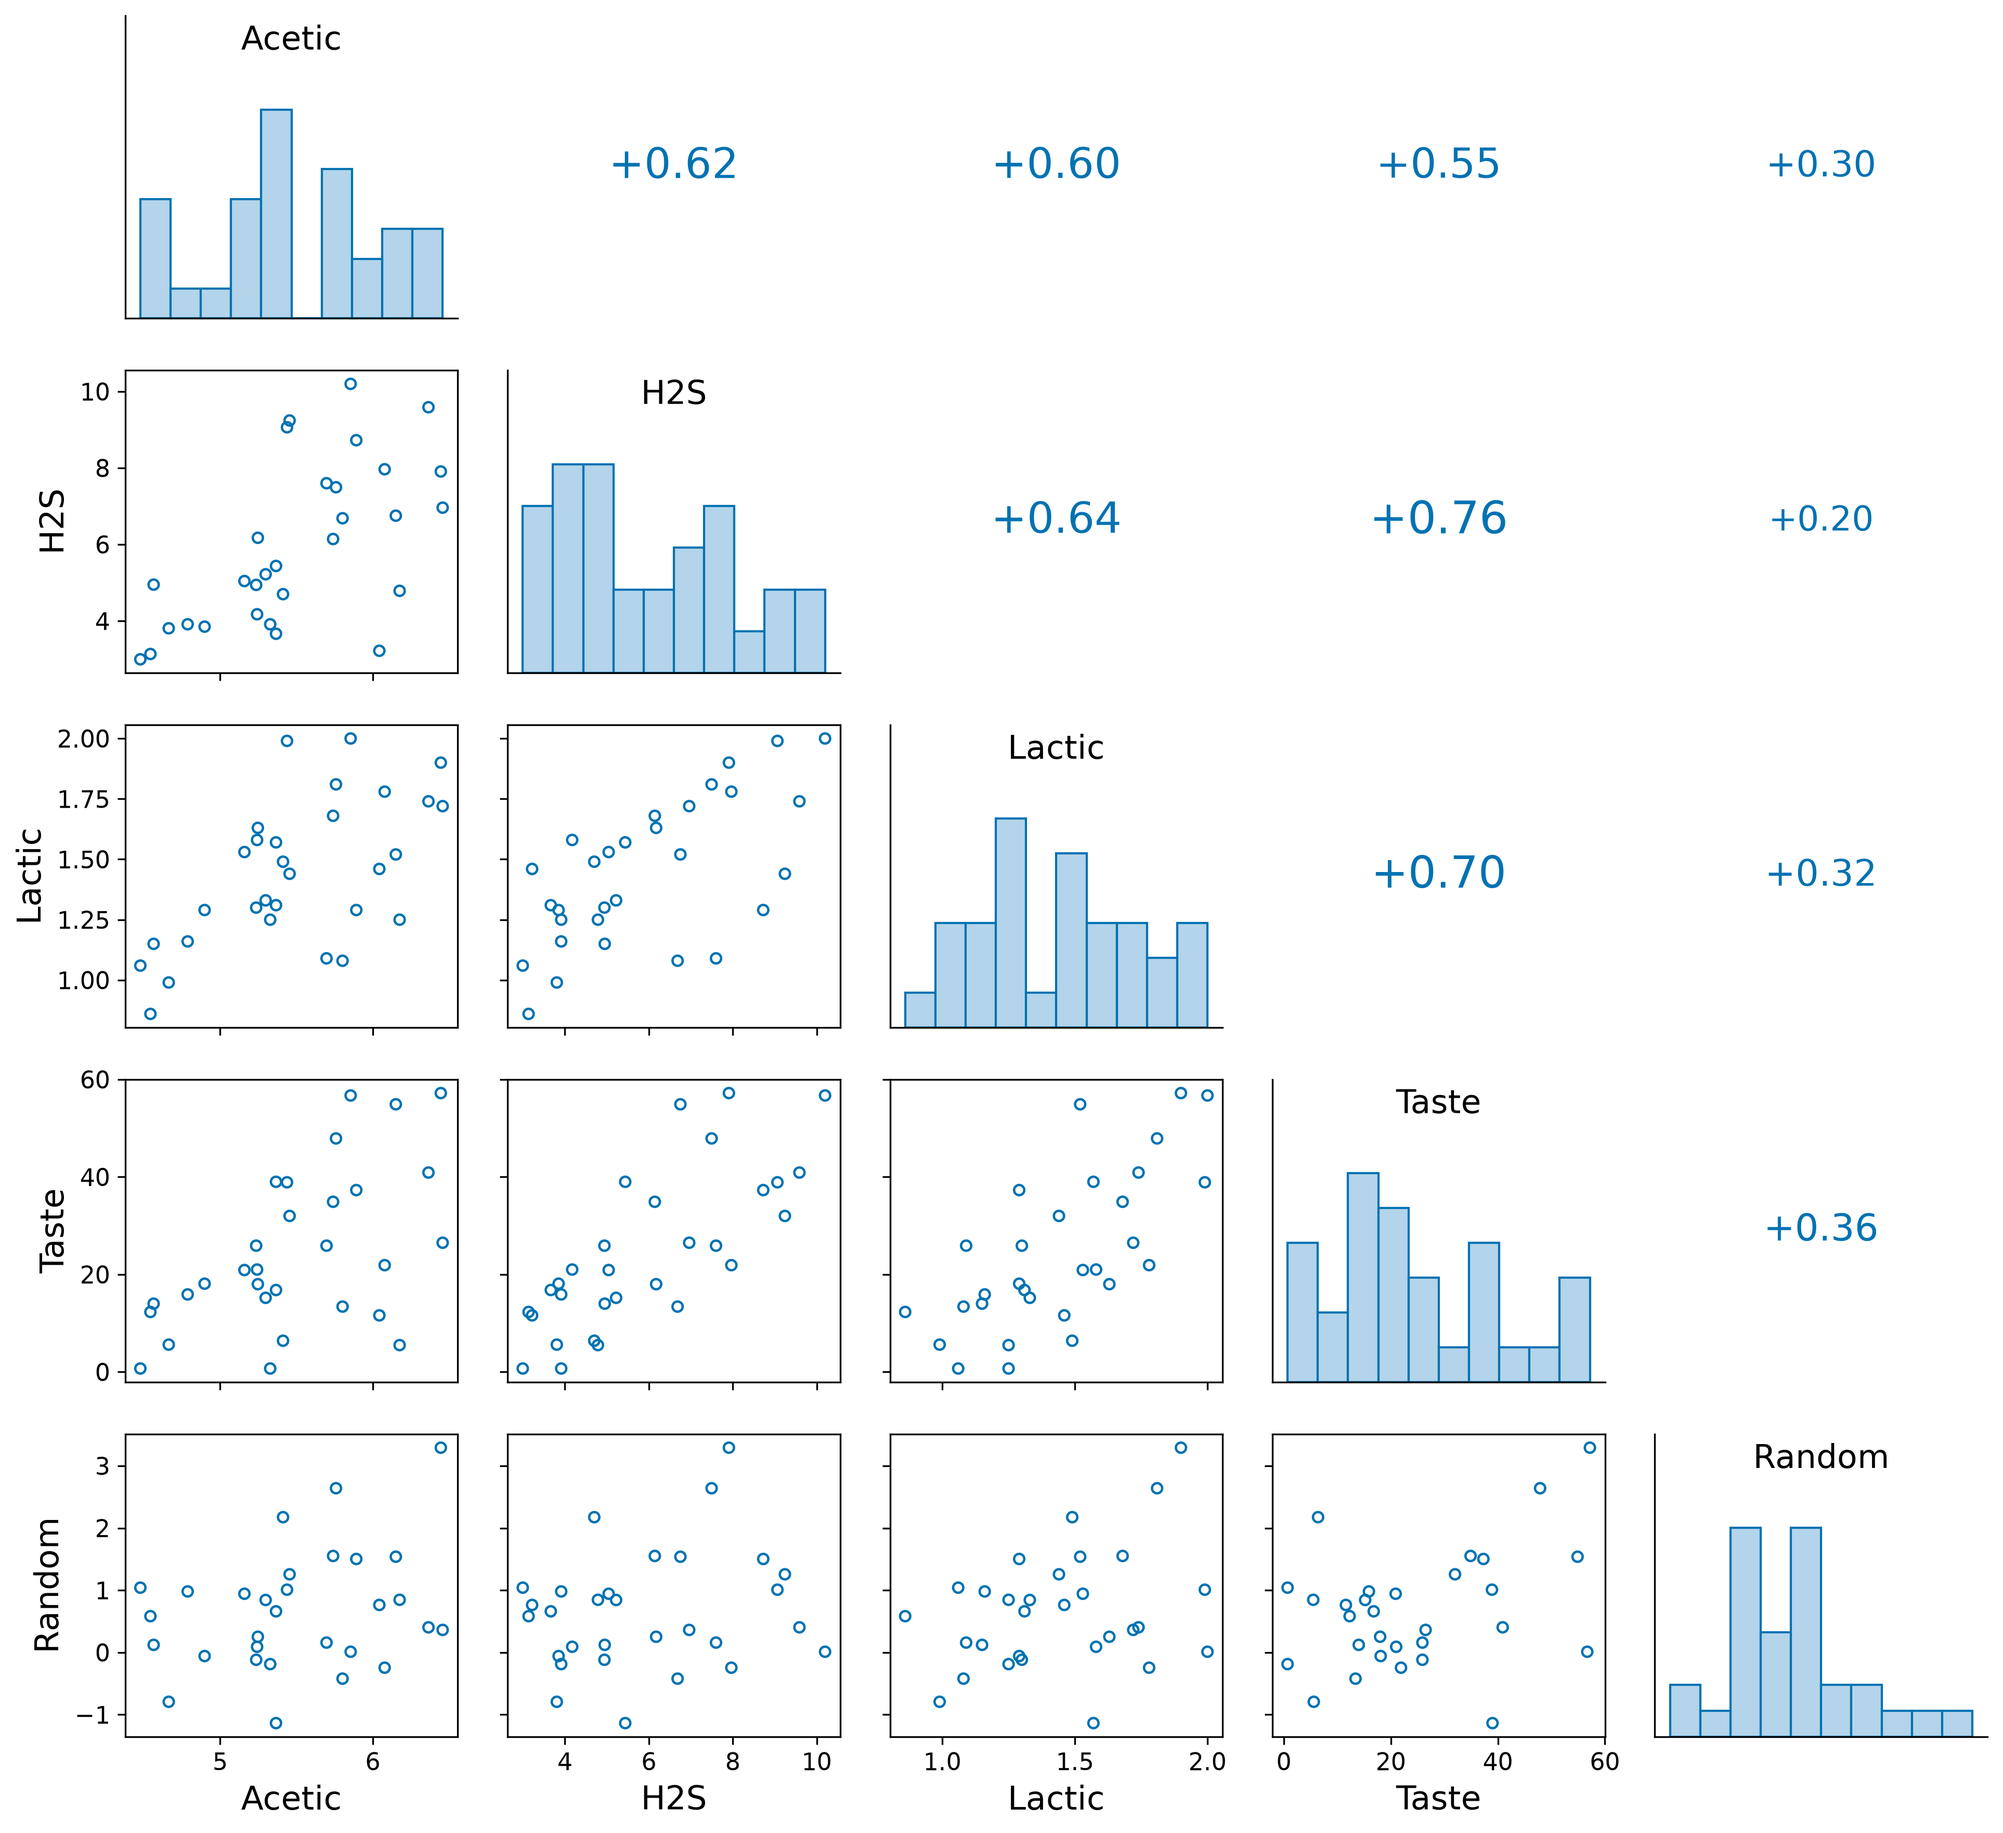
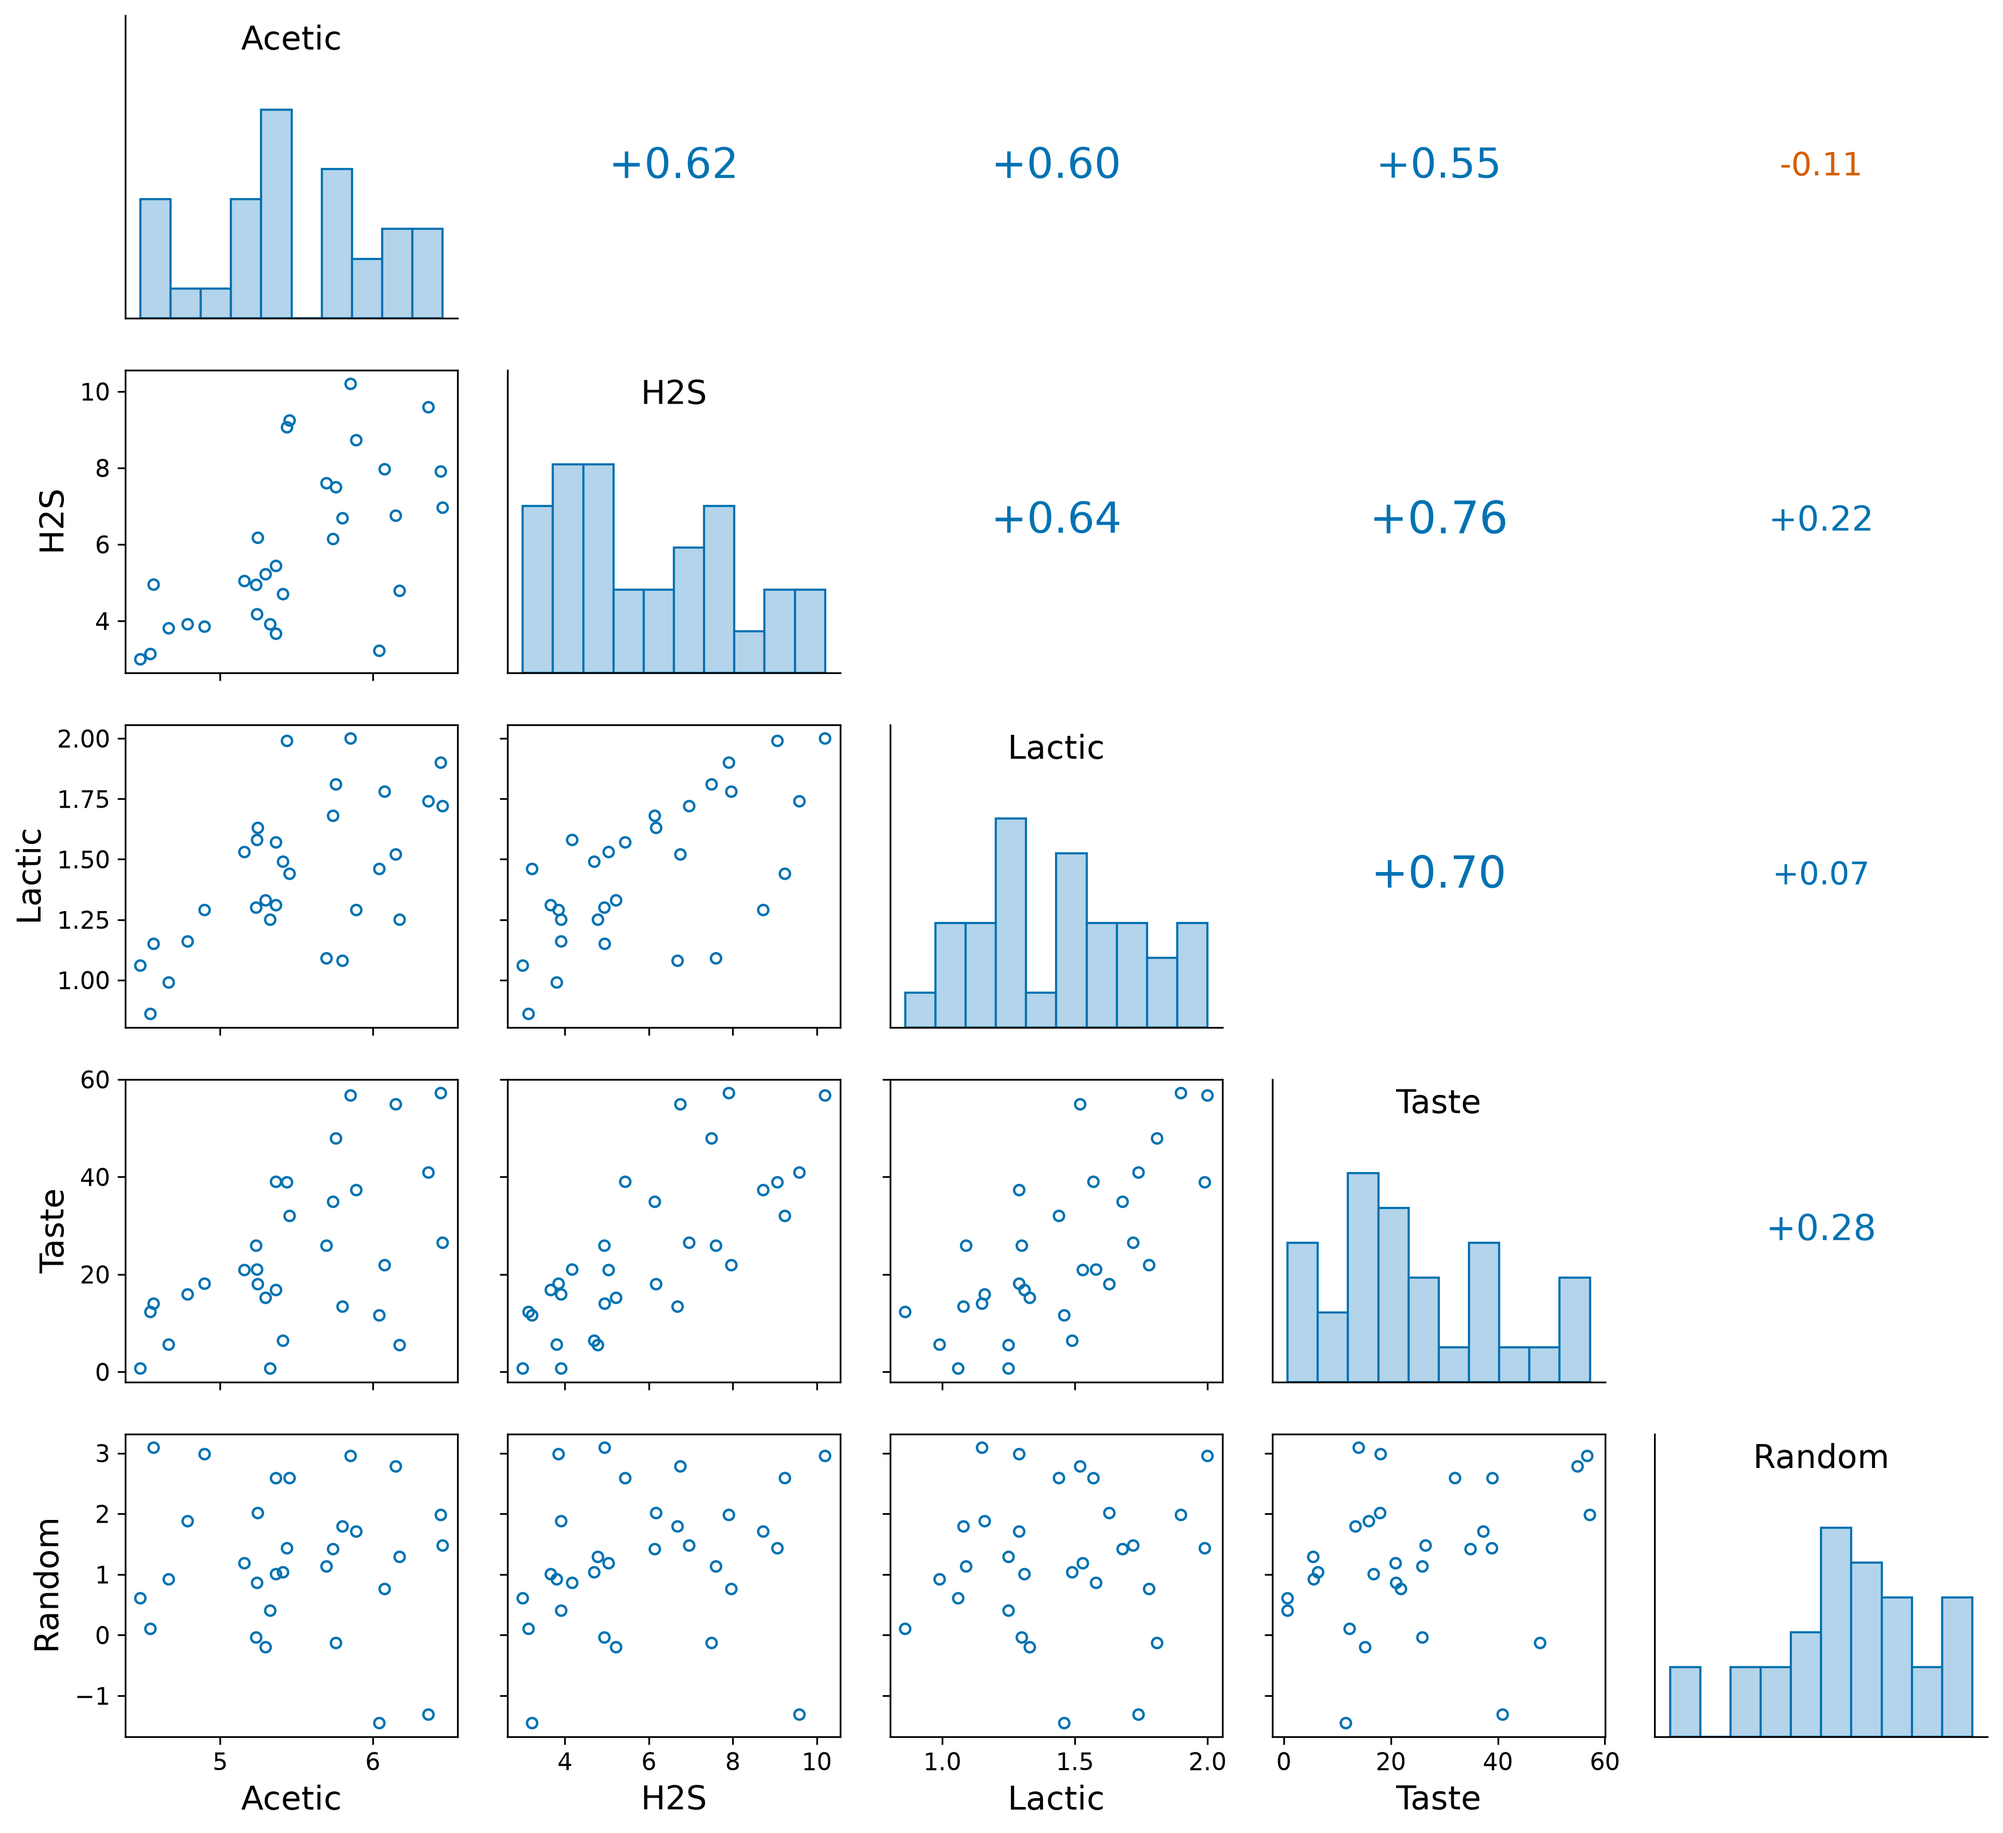
Put the random column back on the cheese scatter-plot matrix
I had dropped it, on the reading that the exercise's printed code plots
four columns and the committed figure showed five. That was wrong on
both counts, and I was looking at the wrong call. cheese-plots.R
creates the column on line 5, `cheese$Random <- rnorm(N, 1)`, and then
draws two matrices: columns 2 to 6 for cheese-plots.png, and columns 2
to 5 for cheese-plots-no-random.png. The five-column figure is the one
the book embeds, and the four-column one already had its own name.

The column is also the reason the figure earns its place. A variable
known to be unrelated to the others gives the reader a reference for
what "no relationship" looks like in this display, to read the real
correlations against, and the same column carries through the script
into the regression and neural-net models, where the point is that pure
noise should earn no coefficient.

The values are no longer regenerated from a seed. The R script writes
them to cheese-with-random-data.csv "to double check calculations in
other software packages", so they are read from there and the figure
reproduces the original exactly rather than approximately. Its
correlation with taste is +0.279, which is what the original shows.

All three committed names are now written: cheese-plots.png and
cheese-plots-with-random.png with five columns, cheese-plots-no-random
with four.

diff --git a/examples/cheese/cheese_scatterplot_matrix.py b/examples/cheese/cheese_scatterplot_matrix.py
@@ -1,21 +1,28 @@
 """Scatterplot matrix for the cheddar-cheese exercise.
 
-Writes two committed PNGs, replacing the base-R output of
+Writes three committed PNGs, replacing the base-R output of
 ``cheese-plots.R``:
 
-- ``cheese-plots.png``: the four measured variables (acetic acid, H2S,
-  lactic acid and taste) plotted against each other, which is what the
-  exercise's own code produces.
-- ``cheese-plots-with-random.png``: the same four with a column of random
-  numbers added, for showing what a variable unrelated to the others looks
-  like in the same display.
+- ``cheese-plots.png`` and ``cheese-plots-with-random.png``: acetic acid,
+  H2S, lactic acid, taste, and a fifth column of random numbers.
+- ``cheese-plots-no-random.png``: the same four measured variables without
+  that fifth column.
 
-The exercise prints ``scatterplotMatrix(cheese[, 2:5])``, four columns, but
-the committed ``cheese-plots.png`` showed five, the fifth being a "Random"
-variable that the exercise never introduces and its code never creates. A
-reader running the printed code got a different figure from the one beside
-it. The four-column version now carries that name; the five-column version
-keeps its own.
+The random column is deliberate, and it is the reason the figure earns its
+place. ``cheese-plots.R`` creates it on its line 5, ``cheese$Random <-
+rnorm(N, 1)``, and plots columns 2 to 6 for ``cheese-plots.png`` and
+columns 2 to 5 for ``cheese-plots-no-random.png``. Having a variable that
+is known to be unrelated to the rest gives the reader a reference for what
+"no relationship" looks like in this display, against which the real
+correlations can be read. The same column carries through the chapter into
+the regression and the neural-net models further down that script, where
+the point is that a variable of pure noise should earn no coefficient.
+
+Its values are not regenerated here. The R script writes them out to
+``cheese-with-random-data.csv`` in this directory, with the comment "to
+double check calculations in other software packages", so the recorded
+values are read from there and the figure reproduces the original exactly
+rather than approximately.
 
 The diagonal carries each variable's histogram and the upper triangle its
 correlation with the other variable, which is the same layout used for the
@@ -46,9 +53,11 @@ GRID = "#DDDDDD"
 
 DPI = 300
 HERE = pathlib.Path(__file__).parent
-URL = "https://openmv.net/file/cheddar-cheese.csv"
+# The random column exists only in the committed copy: the dataset on
+# openmv.net carries the four measured variables alone.
+RECORDED = "cheese-with-random-data.csv"
 MEASURED = ["Acetic", "H2S", "Lactic", "Taste"]
-SEED = 2
+WITH_RANDOM = [*MEASURED, "Random"]
 
 mpl.rcParams.update(
     {
@@ -64,11 +73,8 @@ mpl.rcParams.update(
 
 
 def cheese() -> pd.DataFrame:
-    try:
-        data = pd.read_csv(URL)
-    except Exception:  # noqa: BLE001
-        data = pd.read_csv(HERE / "cheese-with-random-data.csv", index_col=0)
-    return data[MEASURED]
+    """The five columns, random one included, as the R script recorded them."""
+    return pd.read_csv(HERE / RECORDED, index_col=0)[WITH_RANDOM]
 
 
 def scatterplot_matrix(data: pd.DataFrame, outdir: pathlib.Path, name: str) -> None:
@@ -120,16 +126,14 @@ def scatterplot_matrix(data: pd.DataFrame, outdir: pathlib.Path, name: str) -> N
 
 def main(outdir: pathlib.Path) -> None:
     data = cheese()
-    print(f"{len(data)} cheeses, {data.shape[1]} measured variables")
+    print(f"{len(data)} cheeses, {data.shape[1]} columns")
     print(data.corr().round(3).to_string())
-
-    with_random = data.copy()
-    with_random["Random"] = np.random.RandomState(SEED).normal(loc=1.0, size=len(data))
     print("correlation of the random column with taste: "
-          f"{with_random['Random'].corr(with_random['Taste']):+.3f}")
+          f"{data['Random'].corr(data['Taste']):+.3f}")
 
     scatterplot_matrix(data, outdir, "cheese-plots.png")
-    scatterplot_matrix(with_random, outdir, "cheese-plots-with-random.png")
+    scatterplot_matrix(data, outdir, "cheese-plots-with-random.png")
+    scatterplot_matrix(data[MEASURED], outdir, "cheese-plots-no-random.png")
 
 
 if __name__ == "__main__":
